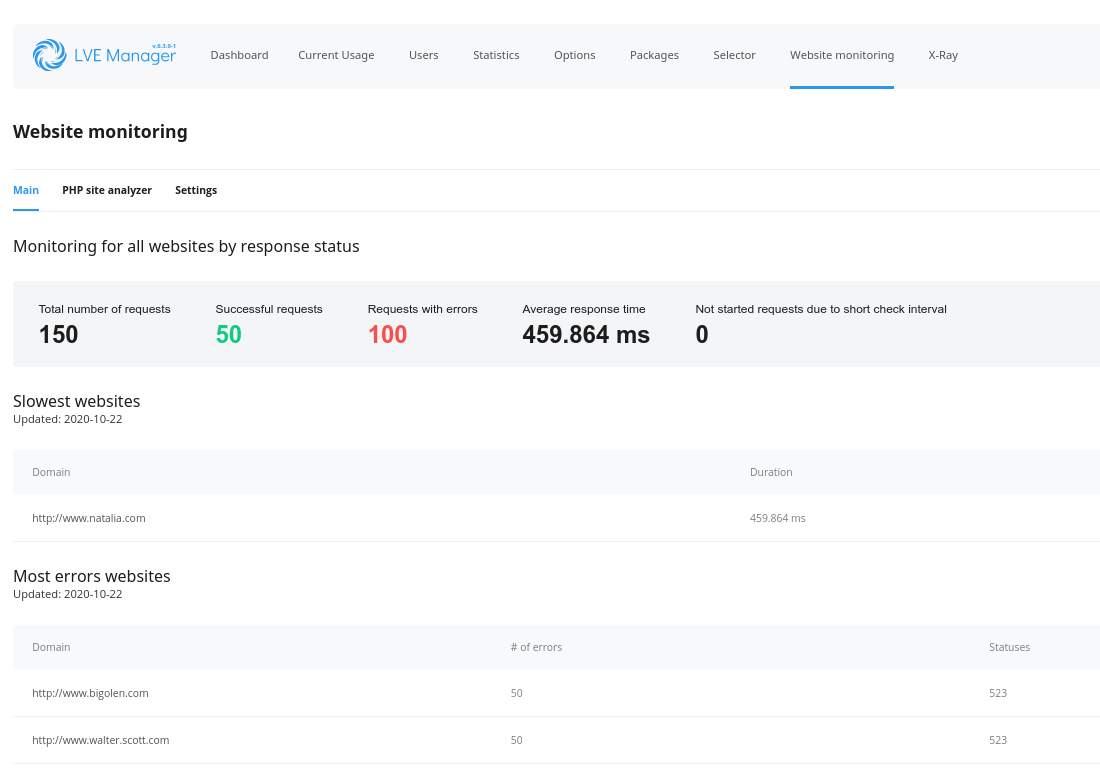
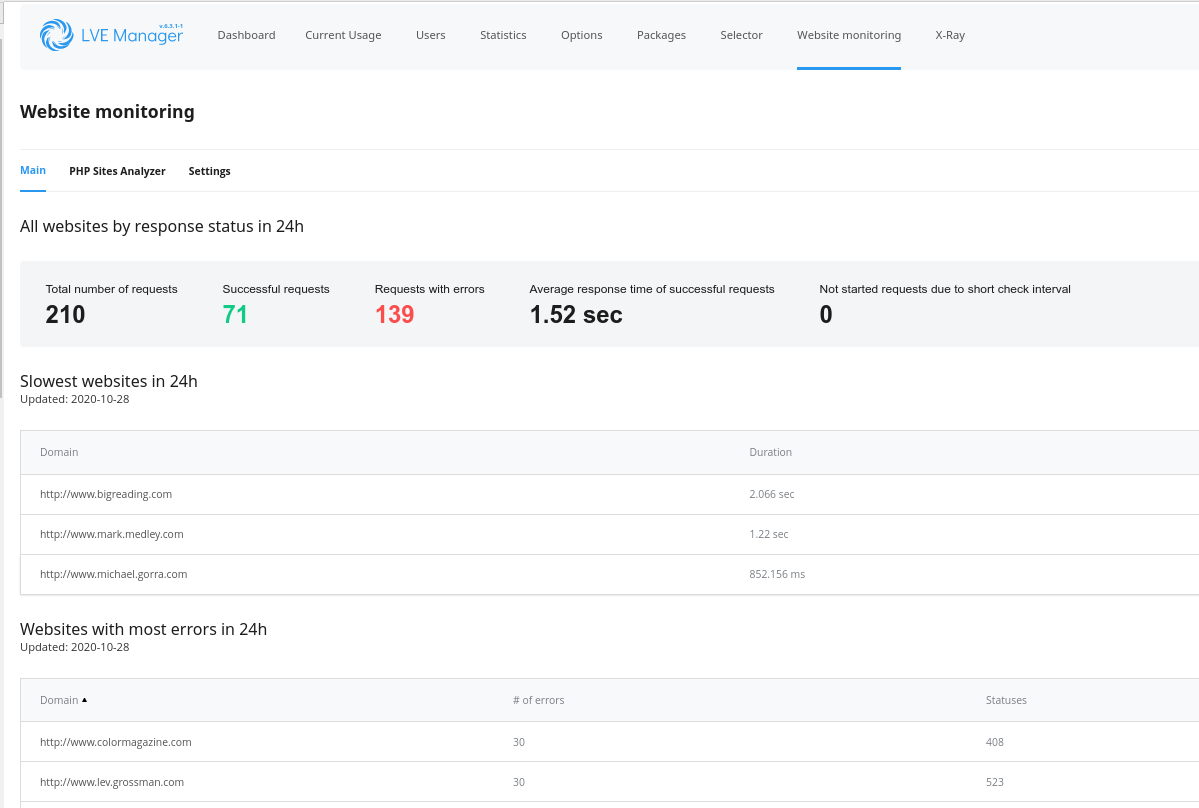
PT-1936: Documentation about Website monitoring and Slow Site analyzer tools

diff --git a/docs/lve_manager/README.md b/docs/lve_manager/README.md
@@ -1050,22 +1050,30 @@ By default, <span class="notranslate">Passenger</span> log messages are all writ
 
 See also: [Node.js Selector CLI tools](/command-line_tools/#node-js-selector).
 
-<!--
 ### Website monitoring tool and Slow Site analyzer
 
 * [Website monitoring tab](/lve_manager/#website-monitoring-tab)
 * [Main](/lve_manager/#main)
-* [PHP Site analyzer](/lve_manager/#php-site-analyzer)
+* [PHP Slow Site analyzer](/lve_manager/#php-slow-site-analyzer)
 * [Settings](/lve_manager/#settings)
+* [What is the density threshold?](/lve_manager/#what-is-the-density-threshold)
 * [Email notifications](/lve_manager/#email-notifications)
 
-**Website monitoring tool** is a new tool that collects the statistics of the domains' availability and responsiveness, as well as errors that occur when accessing these domains. An admin can get email reports with the statistics.
+**Website monitoring tool** is a new tool that collects the statistics of the domains' availability and responsiveness, as well as errors that occur when accessing these domains. An admin can get email reports with the statistics. The website monitoring tool uses the simple curl request like `curl http://domain.com` to get domains’ statistics.
 
-**Slow Site analyzer** is a new tool that generates daily reports for the server administrator with information about the top N slow PHP-based domains and URLs.
+**PHP Slow Site analyzer** is a new tool that generates daily reports for the server administrator with information about the top N slow PHP-based domains and URLs. Slow Site analyzer tracks all PHP-based requests and selects slow ones by certain rules.   
+
+:::tip Note
+Slow Site analyzer is not available for CloudLinux 6.
+:::
  
 **Installation**
 
-Update the `lvemanager` package to version 6.3.0-1 and higher and you'll get the `alt-php-ssa` and the `cl-web-monitoring-tool` packages as a dependency.
+To install the tool, run the following command:
+
+```
+yum update lvemanager --enablerepo=cloudlinux-updates-testing
+```
 
 **Uninstall**
 
@@ -1078,9 +1086,9 @@ yum erase alt-php-ssa cl-web-monitoring-tool
 
 #### Website monitoring tab
 
-The configuration of the Website monitoring tool and the Slow Site analyzer can be done in the LVE Manager -> Website monitoring tab.
+You can configure the Website monitoring tool and Slow Site analyzer and view the daily reports in the LVE Manager -> Website monitoring tab.
 
-There are Main, PHP Site analyzer, and Settings subtabs.
+There are Main, PHP Site analyzer, and Settings subtabs here.
 
 #### Main
 
@@ -1088,40 +1096,78 @@ This subtab views the latest report (for the previous day) of the Website monito
 
 ![](/images/WebsiteMonitoringMain.png)
 
-Here, the slowest websites are the sites that respond slowly to the simple cURL request like this `curl http://domain.com`.
+Remember that report is created every 24 hours and all changes in configuration (the _Settings_ tab) or in the list of domains will be applied for the next 24 hours (from midnight).
 
-#### PHP Site analyzer
+* **Total number of requests** - requests that were sent to all domains, existing on the servers
+* **Successful requests** - the number of requests for all domains with ![](/images/Code200.png)
+* **Requests with errors** - the number of requests for all domains which status code is not 200
+* **Not started requests due to short check interval** - this metric is used to adjust configuration. If it is not equal 0, an admin should increase the value of Requests sending interval, because the tool does not fit into this interval to send requests to all domains.
+* **Slowest websites in 24h and Websites with most errors in 24h** - in these sections you can find the number of domains that was exposed here.
+
+  ![](/images/TopSlow.png)
+
+
+#### PHP Slow Site analyzer
+
+:::tip Note
+The Slow Site analyzer is not available for CloudLinux 6.
+:::
 
 ![](/images/WebsiteMonitoringPHPSiteAnalyzer.png)
 
 This is an example of a report from the Slow Site analyzer. The report shows the number of slow requests per domain and its URLs and the average duration of each slow URL.
 
+You can find the explanation of the **Slow requests density in period** [here](/lve_manager/#what-is-the-density-threshold).
+
+
 #### Settings
 
 Here, an admin can config the Website monitoring and the PHP Site analyzer.
+
+:::tip Note
+All settings which was changed after starting Website monitoring and Slow site analyzer will be applied for the next 24h (from midnight).
+:::
 
 To enable or disable **Website monitoring**, use the following slider.
 
 ![](/images/WebsiteMonitoringSlider.png)
 
-* **Number of domains for report** – this number (N) will be used to select the top N domains from the list of all domains, sorted by a response duration (Slowest websites list). And this number also will be used to select the top N domains from the list of all domains, sorted by the number of errors (Websites with most errors list).
-* **Send request period** -  is a period in seconds between requests to the same domain.
+* **Top N slow websites to show** - this number (N) will be used to select the top N domains from the list of all domains, sorted by response duration (Slowest websites list). And this number also will be used to select the top N domains from the list of all domains, sorted by amount of errors (Websites with most errors list).
+* **Requests sending interval** - this is a period in minutes between requests to the same domain.
 * **Domain response timeout** - if there is no answer from the website for this period of time, the Website Monitoring tool will regard this behaviour as the `HTTP 408` error.
 * **Concurrent requests limit** - how many concurrent requests can be done by the Website Monitoring tool.
 
 To enable or disable the **Slow site analyzer**, use the following slider.
 
+:::tip Note
+Slow Site analyzer is not available for CloudLinux 6.
+:::
+
 ![](/images/WebsiteMonitoringSlider1.png)
 
-* **Top slow domains** - this number (N) will be used to select the top N domains from the list of all domains, marked as slow.
+* **Top N slow websites to show** - this number (N) will be used to select the top N domains from the list of all domains, marked as slow.
 * **Top slow URLs** - this number (N) will be used to select the top N URLs for each domain, marked as slow.
-* **Request duration** - the duration of a request in seconds. 
-* **Request number & Time** - how many requests with a certain request duration should be done in time to mark the domain as a slow one.
+* **Slow request duration** - the duration of a request in seconds. 
+* **Slow requests number & Analysis time** - how many requests with a certain request duration should be done in time to mark the domain as a slow one.
+* **Slow requests density threshold** can be in the interval [0..1], by default it is 0.8. The **density threshold** can be disabled. And the **Domains and URLs Ignore List** can be specified.
 
+#### What is the density threshold?
+
+We try to find the most interesting requests for the optimisation from all number of requests to domains during 24 hours. The _Density threshold_ parameter helps to find the most visited URLs and the most popular requests. 
+
+A density threshold is a numerical measure of some type of correlation, meaning the power of the statistical relationship between slow requests and all requests to the domain. If this parameter is enabled then the resulting table will contain slow requests that have exceeded the specified threshold. Requests with the highest density are usually the most distributed per day and are considered valuable to users, thus interesting for optimization.
+
+Slow requests that represent bursts of activity and are weakly related to all activity per domain typically have a low density and will be weeded out.
 
 #### Email notifications
 
--->
+Email notifications are created by the Web monitoring tools. 
+
+:::tip Note
+Email notifications from the Slow Site analyzer will be implemented in the next releases.
+:::
+
+![](/images/EmailNotifications.png)
 
 ### Reseller interface
 
